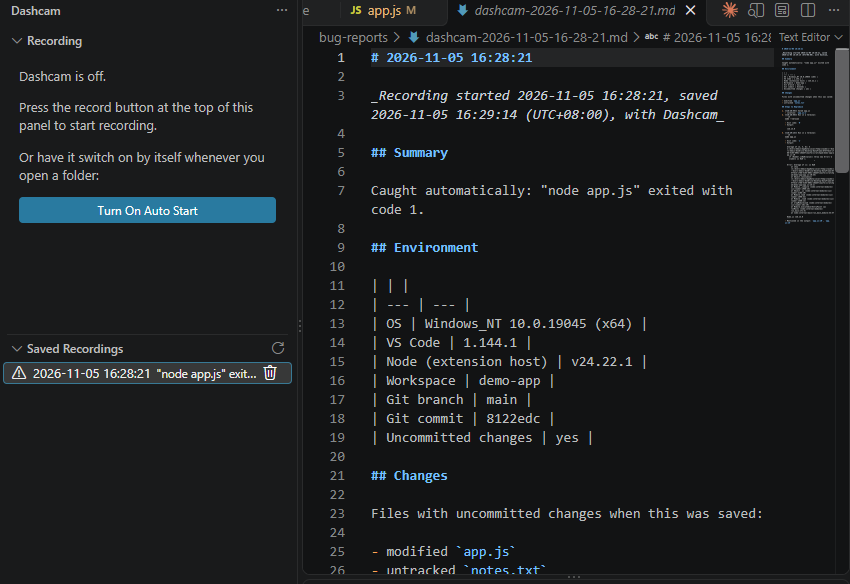
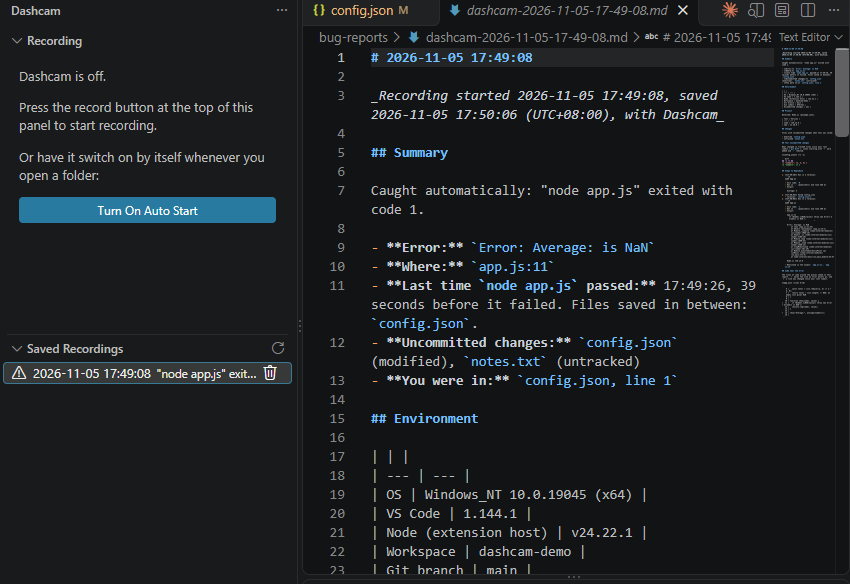
Document 0.3.0: richer reports; config-driven demo app; screenshots from a clean run

diff --git a/examples/demo-app/app.js b/examples/demo-app/app.js
@@ -1,9 +1,10 @@
 // A tiny program with a deliberate bug, for trying out Dashcam.
 // Run it with:  node app.js
+const { numbers } = require("./config.json");
 
-function average(numbers) {
-  const total = numbers.reduce((a, b) => a + b, 0);
-  return total / numbers.length; // BUG: an empty list gives NaN
+function average(list) {
+  const total = list.reduce((a, b) => a + b, 0);
+  return total / list.length; // BUG: an empty list gives NaN
 }
 
 function show(label, value) {
@@ -11,5 +12,4 @@ function show(label, value) {
   console.log(label, value);
 }
 
-show("Average of [2, 4, 6]:", average([2, 4, 6]));
-show("Average of []:", average([]));
+show("Average:", average(numbers));

diff --git a/docs/tutorials/03-save-and-share-the-report.md b/docs/tutorials/03-save-and-share-the-report.md
@@ -14,18 +14,31 @@ A saved recording is a report. It is one Markdown file.
 | Section | What goes there |
 |---|---|
 | Title and time stamp | The date and time the recording started, when it was saved, and your time zone (for example `UTC+08:00`), so it makes sense to someone in another country |
-| **Summary** | Only for a crash Dashcam caught: what failed, such as `"node app.js" exited with code 1` |
+| **Summary** | What failed, such as `"node app.js" exited with code 1` (for a crash Dashcam caught), then a few bullets so a reader gets the point at a glance: the **error** line, **where** it points (`app.js:10`, and whether that is a line you changed), **the last time the same command passed** with the files you saved in between, your **uncommitted changes**, which file and line **you were in**, and any **unsaved edits** the report cannot see |
 | **Environment** | OS, VS Code version, Node, workspace, git branch and commit, whether you have uncommitted changes, and any tool versions you listed in `dashcam.extraTools` |
+| **Project** | The kind of project (Node.js, Python, .NET, Go, Java or Rust), the tool versions (`node`, `npm`, `python`, `dotnet`, `go`, `java`, `rustc`), and the dependency list from `package.json`, `requirements.txt` or a `.csproj`. Most "works on my machine" problems are version problems. |
 | **Changes** | In a git project, the files with uncommitted changes when the report was saved, such as `modified app.js` or `untracked notes.txt`. This answers "what did I change right before it broke?" The reports folder is left out. |
-| **Steps to Reproduce** | The numbered story: saved files, terminal commands with their exit code and output, debug sessions and new errors, each with the time it happened, like the stamp on footage, and `file:line` where there is one. For a command, the `file:line` locations in your project that its output names, such as stack-trace lines, are listed as "Mentioned in the output" |
-| **Code near the error** | A few lines of your code around each `file:line` the report points at, with the line the error points at marked `>`. So the report shows the code as well as the error. Secret-looking files such as `.env` are never included, and `dashcam.codeContextLines` set to `0` leaves code out. |
+| **Your uncommitted changes** | The real diff (`git diff`) of tracked files since your last commit, so a reader sees exactly what changed. Capped in size, and files such as `.env` are left out. `dashcam.diffMaxLines` set to `0` leaves it out. |
+| **Steps to Reproduce** | The numbered story: saved files, terminal commands with their exit code and output, debug sessions and new errors, each with the time it happened, like the stamp on footage, and `file:line` where there is one. For a command, the `file:line` locations in your project that its output names, such as stack-trace lines, are listed as "Mentioned in the output". Each command also shows the folder and shell it ran in and how long it took, and for very long output the start and the end are both kept |
+| **Code near the error** | A few lines of your code around each `file:line` the report points at, with the line the error points at marked `>` and the lines you changed since your last commit marked `*`. So the report shows the code as well as the error, and whether the error is on a line you just edited. Secret-looking files such as `.env` are never included, and `dashcam.codeContextLines` set to `0` leaves code out. |
+| **Problems panel at the time** | How many errors and warnings the Problems panel had when the report was saved, and the first few errors with their `file:line` |
 | **Errors and Output** | What debug sessions printed to stdout and stderr |
 
 A complete one: [examples/sample-report.md](../../examples/sample-report.md).
 
-Here is the end of a real one, saved after `.\fail.cmd` failed. The terminal entries have their exit codes and output, and the stack-trace line `app.js:6:12` is listed as "Mentioned in the output":
+Here is the top of a real one, saved after the demo app failed (see [tutorial 1](01-record-your-first-bug.md)). The Summary tells the story in five lines: the error, where it points, that the same command passed 39 seconds earlier, which file was saved in between, and what is uncommitted.
 
-![The Steps to Reproduce part of a saved report, with an exit code, the command's output, and "Mentioned in the output: app.js:6"](../images/report-steps.png)
+> ## Summary
+>
+> Caught automatically: "node app.js" exited with code 1.
+>
+> - **Error:** `Error: Average: is NaN`
+> - **Where:** `app.js:11`
+> - **Last time `node app.js` passed:** 17:49:26, 39 seconds before it failed. Files saved in between: `config.json`.
+> - **Uncommitted changes:** `config.json` (modified), `notes.txt` (untracked)
+> - **You were in:** `config.json, line 1`
+
+Lower down, **Your uncommitted changes** shows the edit itself (`-{ "numbers": [2, 4, 6] }` and `+{ "numbers": [] }`), and **Code near the error** shows the `average()` function with its `// BUG` comment, so the cause is in the report.
 
 Want to add your own words, such as what you expected? It is a Markdown file. Open it and type under the heading.
 

diff --git a/docs/reference.md b/docs/reference.md
@@ -51,7 +51,12 @@ Turn this off with `dashcam.detectCrashes`.
 
 - **Changes.** In a git project, the files with uncommitted changes when the report is saved: modified, added, deleted, renamed or untracked. The folder Dashcam saves reports in is left out. Not shown outside a git project, or when nothing has changed.
 - **Mentioned in the output.** Dashcam scans a command's output and debug output for `path/to/file.ext:line` (for example `app.js:6:12` in a stack trace) and lists the ones that point at a real file inside your project. URLs, version numbers, missing files and paths outside the project are ignored. At most five per entry.
-- **Code near the error.** For every `file:line` the report points at (the ones above, and errors from the Problems panel), a few lines of that file around it, with line numbers and the line the error points at marked `>`. Locations close together are merged into one block. Limits: at most 6 files and 120 lines per report, files over 512 KB are skipped, and lines are cut at 200 characters. Files named like `.env`, `*.pem`, `*.key`, `*.pfx`, `*.p12`, `id_rsa*`, or containing `secret` or `credential` are never included. The text goes through secret redaction like the rest of the report. Set `dashcam.codeContextLines` to `0` to leave code out.
+- **Code near the error.** For every `file:line` the report points at (the ones above, and errors from the Problems panel), a few lines of that file around it, with line numbers and the line the error points at marked `>`. Locations close together are merged into one block. Limits: at most 6 files and 120 lines per report, files over 512 KB are skipped, and lines are cut at 200 characters. Files named like `.env`, `*.pem`, `*.key`, `*.pfx`, `*.p12`, `id_rsa*`, or containing `secret` or `credential` are never included. The text goes through secret redaction like the rest of the report. Set `dashcam.codeContextLines` to `0` to leave code out. Lines you changed since your last commit are marked `*` in the snippets.
+- **At a glance (in the Summary).** After the crash line, up to six bullets: the **error** line from the output (the first `...Error` or `...Exception` line, else the last line); **where** it points, and whether that is a line you changed; **the last time the same command passed**, how long before it failed, and the files saved in between (or that it had no earlier passing run in this recording); your **uncommitted changes**; the **file and line you were in**; and **unsaved edits** in other files that the report cannot see.
+- **Your uncommitted changes.** The `git diff` against your last commit for tracked files, with line numbers kept by the hunk headers. Limits: `dashcam.diffMaxLines` lines in total, lines cut at 200 characters, and files named like `.env`, `*.pem` or `*.key` and the reports folder left out. Untracked files are listed under **Changes** but their contents are not included. Not shown when there is no git repository or no commit yet.
+- **Project.** What kind of project this is, found from files in the project's root: `package.json` (Node.js), `requirements.txt`, `pyproject.toml` or `Pipfile` (Python), a `.csproj` or `.sln` (.NET), `go.mod` (Go), `pom.xml` or `build.gradle` (Java), `Cargo.toml` (Rust). It lists the tool versions (`node --version`, `npm --version`, `python --version`, `dotnet --version`, `go version`, `java -version`, `rustc --version`) and up to 30 dependencies with their declared versions.
+- **How each command ran.** The folder it ran in (relative to the project), the shell, and how long it took. If its output was longer than 6,000 characters, the first 2,000 and the last 4,000 are kept, with a line saying how many characters were left out.
+- **Problems panel at the time.** The number of errors and warnings in the Problems panel when the report was saved, and the first eight errors with their `file:line`.
 
 ## Settings
 
@@ -60,6 +65,8 @@ Turn this off with `dashcam.detectCrashes`.
 | `dashcam.autoStart` | `false` | Start recording when a folder opens. A recording is titled with the date and time it started. |
 | `dashcam.bufferMinutes` | `30` | Drop entries older than this many minutes. `0` keeps everything. |
 | `dashcam.codeContextLines` | `5` | In a saved report, include this many lines of code either side of each `file:line` the report points at. `0` leaves code out. Maximum `10`. |
+| `dashcam.diffMaxLines` | `150` | In a saved report, include what changed in tracked files since your last commit (`git diff`), up to this many diff lines in total, and mark the changed lines in the code snippets. `0` leaves it out. Maximum `500`. |
+| `dashcam.includeProjectInfo` | `true` | In a saved report, include the project type, its dependency list and the versions of its tools. The version commands run only in a trusted workspace. |
 | `dashcam.detectCrashes` | `true` | When a command exits with an error or a debug session crashes, stop and save the report automatically. |
 | `dashcam.redactSecrets` | `true` | Replace likely secrets with `[REDACTED]` in saved reports. |
 | `dashcam.outputFolder` | `bug-reports` | Where reports are saved, relative to the workspace root. |

diff --git a/examples/sample-report.md b/examples/sample-report.md
@@ -1,69 +1,114 @@
-# 2026-11-05 14:08:05
+# 2026-11-05 17:49:08
 
-_Recording started 2026-11-05 14:08:05, saved 2026-11-05 14:08:49 (UTC+08:00), with Dashcam_
+_Recording started 2026-11-05 17:49:08, saved 2026-11-05 17:50:06 (UTC+08:00), with Dashcam_
 
 ## Summary
 
 Caught automatically: "node app.js" exited with code 1.
 
+- **Error:** `Error: Average: is NaN`
+- **Where:** `app.js:11`
+- **Last time `node app.js` passed:** 17:49:26, 39 seconds before it failed. Files saved in between: `config.json`.
+- **Uncommitted changes:** `config.json` (modified), `notes.txt` (untracked)
+- **You were in:** `config.json, line 1`
+
 ## Environment
 
 | | |
 | --- | --- |
-| OS | Windows_NT 10.0.22631 (x64) |
-| VS Code | 1.95.0 |
-| Node (extension host) | v20.18.0 |
-| Workspace | demo-app |
+| OS | Windows_NT 10.0.19045 (x64) |
+| VS Code | 1.144.1 |
+| Node (extension host) | v24.22.1 |
+| Workspace | dashcam-demo |
 | Git branch | main |
-| Git commit | 3f2a9c1 |
+| Git commit | 8fbcfa1 |
 | Uncommitted changes | yes |
-| node --version | v22.11.0 |
+
+## Project
+
+Detected: Node.js (package.json).
+
+| Tool | Version |
+| --- | --- |
+| node | v26.13.0 |
+| npm | 11.20.0 |
 
 ## Changes
 
 Files with uncommitted changes when this was saved:
 
-- modified `app.js`
+- modified `config.json`
 - untracked `notes.txt`
+
+## Your uncommitted changes
+
+What changed in tracked files since your last commit (`git diff`). Lines starting with `+` were added and `-` removed.
+
+**config.json** (+1 -1)
+
+```diff
+@@ -1 +1 @@
+-{ "numbers": [2, 4, 6] }
++{ "numbers": [] }
+```
 
 ## Steps to Reproduce
 
-1. **14:08:31** Saved app.js
-   - Location: `app.js:1`
-2. **14:08:40** Run in a terminal:
+1. **17:49:26** Run in a terminal:
+   ```sh
+   node app.js
+   ```
+   - Exit code: `0`
+   - Ran in `.` (powershell) and took 366 ms
+   - Output:
+     ```
+     Average: 4
+     ```
+2. **17:49:53** Saved config.json
+   - Location: `config.json:1`
+3. **17:50:05** Run in a terminal:
    ```sh
    node app.js
    ```
    - Exit code: `1`
+   - Ran in `.` (powershell) and took 290 ms
    - Output:
      ```
-     app.js:10
+     app.js:11
        if (Number.isNaN(value)) throw new Error(`${label} is NaN`);
                                 ^
 
-     Error: Average of []: is NaN
-         at show (app.js:10:34)
+     Error: Average: is NaN
+         at show (app.js:11:34)
          at Object.<anonymous> (app.js:15:1)
-     Node.js v22.11.0
+         at Module._compile (node:internal/modules/cjs/loader:1968:14)
+         at Object..js (node:internal/modules/cjs/loader:2108:10)
+         at Module.load (node:internal/modules/cjs/loader:1690:32)
+         at Module._load (node:internal/modules/cjs/loader:1480:12)
+         at wrapModuleLoad (node:internal/modules/cjs/loader:261:19)
+         at Module.executeUserEntryPoint [as runMain] (node:internal/modules/run_main:171:5)
+         at node:internal/main/run_main_module:33:47
+
+     Node.js v26.13.0
      ```
-   - Mentioned in the output: `app.js:10`, `app.js:15`
+   - Mentioned in the output: `app.js:11`, `app.js:15`
 
 ## Code near the error
 
-The lines of code around the places named in this report. `>` marks the line an error points at.
+The lines of code around the places named in this report. `>` marks the line an error points at, and `*` a line you changed since your last commit.
 
-**app.js** (lines 5-15)
+**app.js** (lines 6-16)
 
 ```
-   5 |   const total = numbers.reduce((a, b) => a + b, 0);
-   6 |   return total / numbers.length; // BUG: an empty list gives NaN
-   7 | }
-   8 | 
-   9 | function show(label, value) {
-> 10 |   if (Number.isNaN(value)) throw new Error(`${label} is NaN`);
-  11 |   console.log(label, value);
-  12 | }
-  13 | 
-  14 | show("Average of [2, 4, 6]:", average([2, 4, 6]));
-> 15 | show("Average of []:", average([]));
+    6 |   const total = list.reduce((a, b) => a + b, 0);
+    7 |   return total / list.length; // BUG: an empty list gives NaN
+    8 | }
+    9 | 
+   10 | function show(label, value) {
+>  11 |   if (Number.isNaN(value)) throw new Error(`${label} is NaN`);
+   12 |   console.log(label, value);
+   13 | }
+   14 | 
+>  15 | show("Average:", average(numbers));
+   16 |
 ```

diff --git a/README.md b/README.md
@@ -39,9 +39,12 @@
 _Recording started 2026-11-05 14:08:05, saved 2026-11-05 14:21:40 (UTC+08:00), with Dashcam_
 
 ## Summary                Caught automatically: "node app.js" exited with code 1.
-## Environment            OS, VS Code, Node, git branch and commit,
-                          uncommitted changes, and any tool versions you list
+                          + the error, where it points, when this command last
+                            passed, what you changed, where you were
+## Environment            OS, VS Code, Node, git branch and commit
+## Project                project type, tool versions, dependencies
 ## Changes                the files with uncommitted changes (git projects)
+## Your uncommitted changes   the real git diff
 ## Steps to Reproduce     1. 14:08:31 Saved app.js
                           2. 14:08:40 Run in a terminal: node app.js   (exit code 1, with its output,
                              and the file:line locations named in that output)
@@ -56,7 +59,10 @@ See a full one in [examples/sample-report.md](examples/sample-report.md).
 - **Record automatically.** Terminal commands (with output and exit code), saved files, debug sessions and their output, and new Problems panel errors.
 - **Catch crashes.** A failing command or a crashed debug session stops the recording and saves the report, with a message and an **Open Report** button.
 - **Show what changed.** In a git project, a **Changes** section lists the files with uncommitted changes. File and line locations named in a command's output, such as stack-trace lines, are listed under it as `file:line`.
-- **Show the code too.** A **Code near the error** section includes a few lines of your code around each `file:line` the report points at, so one report shows the code as well as the error.
+- **Get the point at a glance.** The Summary lists the error, where it points, **the last time the same command passed** (and the files you saved in between), what you changed, and where you were.
+- **Show what changed.** The real `git diff` of your uncommitted changes, so a reader sees exactly what you edited.
+- **Show the code too.** A **Code near the error** section includes a few lines of your code around each `file:line` the report points at, with the lines you changed marked `*`, so one report shows the code as well as the error.
+- **Say what it ran on.** The project type, tool versions and dependencies, the folder, shell and duration of each command, and the Problems panel at the time.
 - **Stop and decide.** Click the record button again and Dashcam asks whether to save the recording as a report.
 - **Browse your recordings.** A **Saved Recordings** list in the sidebar, newest first. Crashes caught automatically have a warning icon and show what failed.
 - **Time-stamped, like footage.** The sidebar shows the current date and time and a running clock, and every entry in the report has the time it happened.
@@ -79,7 +85,7 @@ If you code with an AI assistant, a report is a much smaller thing to paste than
 Before you paste:
 
 - **Read the report first.** Secret redaction is pattern matching and can miss things, and the report can contain terminal output and code.
-- Pasting sends the text to that AI service. If a project is private, set `dashcam.codeContextLines` to `0` to leave code out of reports.
+- Pasting sends the text to that AI service. If a project is private, set `dashcam.codeContextLines` and `dashcam.diffMaxLines` to `0` to leave code out of reports.
 
 ## Limits, stated plainly
 

diff --git a/docs/privacy.md b/docs/privacy.md
@@ -17,12 +17,13 @@ The short version: **Dashcam works on your computer and sends nothing anywhere.*
 
 ## What a report can contain
 
-A report can contain terminal output, which can contain anything your programs print, including secrets and personal data. Since version 0.2.0 it can also contain a few lines of your own code around the places an error points at (`dashcam.codeContextLines`, 5 lines by default). Files such as `.env` and `*.pem` are never included, but code can still contain things you would not want to share. Dashcam tries to replace likely secrets with `[REDACTED]`, but this is pattern matching and **it can miss things**. Before you paste a report into a public issue or send it to someone, read it.
+A report can contain terminal output, which can contain anything your programs print, including secrets and personal data. Since version 0.2.0 it can also contain a few lines of your own code around the places an error points at (`dashcam.codeContextLines`, 5 lines by default). Since 0.3.0 it can also contain a diff of your uncommitted changes (`dashcam.diffMaxLines`, 150 lines by default) and your project's dependency list and tool versions (`dashcam.includeProjectInfo`). Files such as `.env` and `*.pem` are never included, but code can still contain things you would not want to share. Dashcam tries to replace likely secrets with `[REDACTED]`, but this is pattern matching and **it can miss things**. Before you paste a report into a public issue or send it to someone, read it.
 
 Tips:
 
 - Add `bug-reports/` to your `.gitignore` so reports are not committed by accident.
-- Set `"dashcam.codeContextLines": 0` if you do not want any of your code in reports.
+- Set `"dashcam.codeContextLines": 0` and `"dashcam.diffMaxLines": 0` if you do not want any of your code in reports. Set `"dashcam.includeProjectInfo": false` to leave out the dependency list and tool versions.
+- Dashcam also runs short version commands (`node --version` and similar) when it saves a report, only in a trusted workspace.
 - Dashcam records only while a recording is on. Keep `dashcam.autoStart` off and press the record button only when you want it.
 - Delete any entry you do not want in the Recording list before you stop and save.
 - Reports saved automatically after a crash can contain the failing command's output. Delete a saved recording from the Saved Recordings list if you do not want to keep it.

diff --git a/docs/tutorials/01-record-your-first-bug.md b/docs/tutorials/01-record-your-first-bug.md
@@ -2,7 +2,7 @@
 
 About five minutes. You will switch the dashcam on, make something go wrong, and find the saved recording.
 
-You can use any project. If you want a bug on purpose, copy [examples/demo-app/app.js](../../examples/demo-app/app.js) into a folder and open that folder in VS Code. It averages a list of numbers, gets `NaN` for an empty list, and stops with an error. You need [Node.js](https://nodejs.org) installed to run it.
+You can use any project. If you want a bug on purpose, copy the folder [examples/demo-app](../../examples/demo-app) and open it in VS Code. The program reads a list of numbers from `config.json` and prints their average. With `[2, 4, 6]` it works. With an empty list, `[]`, it gets `NaN` and stops with an error. You need [Node.js](https://nodejs.org) installed to run it.
 
 ## 1. Switch it on
 
@@ -16,16 +16,21 @@ The button turns into a stop icon, and at the top of the list you see the curren
 
 ## 2. Make the bug happen
 
-Do what you would normally do. Save a file. Run the program in the VS Code terminal, for example `node app.js`.
+Do what you would normally do, in the VS Code terminal and editor:
+
+1. Run `node app.js`. It works and prints `Average: 4`.
+2. Open `config.json`, change the list to `[]`, and save the file.
+3. Run `node app.js` again. This time it fails.
 
 You do not have to tell Dashcam anything. Entries appear in the list by themselves and are tagged **auto**, each with the time it happened:
 
 ```
-1. Saved app.js          14:08:31 · auto · app.js:1
-2. node app.js           14:08:40 · auto · exit 1
+1. node app.js           14:08:20 · auto
+2. Saved config.json     14:08:31 · auto · config.json:1
+3. node app.js           14:08:40 · auto · exit 1
 ```
 
-A command that fails shows its exit code, and the output it printed is attached to it.
+A command that fails shows its exit code, and the output it printed is attached to it. Because the same command passed earlier, the report will also say when it last worked, and which file you saved in between.
 
 > If you see no terminal commands, your terminal may not support shell integration, or VS Code is older than 1.93. See the [FAQ](../faq.md).
 

diff --git a/CHANGELOG.md b/CHANGELOG.md
@@ -2,6 +2,18 @@
 
 All notable changes to Dashcam, newest first.
 
+## 0.3.0 (November 2026)
+
+A much more useful report. Everything below is added to the saved Markdown file automatically.
+
+- **At a glance, in the Summary.** The error line, where it points (and whether that is a line you changed since your last commit), **the last time the same command passed** with the files you saved in between, your uncommitted changes, the file and line you were in, and any unsaved edits the report cannot see.
+- **Your uncommitted changes.** The real `git diff` of tracked files, capped in size. Lines you changed are marked `*` in the code snippets, so you can see when an error is on a line you just edited. New setting `dashcam.diffMaxLines` (default `150`, `0` leaves it out).
+- **Project.** The kind of project, the versions of its tools (`node`, `npm`, `python`, `dotnet`, `go`, `java`, `rustc`) and its dependency list (`package.json`, `requirements.txt`, `.csproj`). New setting `dashcam.includeProjectInfo` (default on). The version commands run only in a trusted workspace.
+- **Where and how each command ran:** its folder, the shell, and how long it took.
+- **Problems panel at the time:** the error and warning counts and the first few errors.
+- **Long output keeps its start as well as its end.** The middle is marked as omitted, so an early error is no longer lost.
+- The default for `dashcam.codeContextLines` is now `5`.
+
 ## 0.2.0 (November 2026)
 
 - **Code near the error.** A saved report now includes a few lines of your code around each `file:line` it points at, from stack traces and Problems panel errors, with the line the error points at marked `>`. One report shows the code as well as the error. It is capped in size, passes through secret redaction, and never includes files such as `.env`, `*.pem` or `*.key`.

diff --git a/docs/faq.md b/docs/faq.md
@@ -59,7 +59,7 @@ Entries older than 30 minutes drop off. Make the window shorter with `dashcam.bu
 
 ## Does the report include my code?
 
-A few lines of it. Since 0.2.0, a report includes **Code near the error**: the lines around each `file:line` the report points at (from a stack trace or a Problems panel error), with the line the error points at marked `>`. It never includes the whole project, and never files such as `.env` or `*.pem`. To leave code out, set `dashcam.codeContextLines` to `0`. For the limits, see the [reference](reference.md).
+A few lines of it. Since 0.2.0, a report includes **Code near the error**: the lines around each `file:line` the report points at (from a stack trace or a Problems panel error), with the line the error points at marked `>`. Since 0.3.0 it also includes the `git diff` of your uncommitted changes (capped at `dashcam.diffMaxLines`, 150 lines by default). It never includes the whole project, and never files such as `.env` or `*.pem`. To leave code out, set `dashcam.codeContextLines` and `dashcam.diffMaxLines` to `0`. For the limits, see the [reference](reference.md).
 
 ## Can I paste a report into an AI assistant?
 

diff --git a/examples/README.md b/examples/README.md
@@ -1,4 +1,4 @@
 # Examples
 
-- **[demo-app/app.js](demo-app/app.js):** a tiny program with a deliberate bug (`average([])` returns `NaN`, and the program then stops with an error and exit code 1). Open its folder in VS Code and follow [tutorial 1](../docs/tutorials/01-record-your-first-bug.md) to record it. It needs [Node.js](https://nodejs.org) to run: install it, then run `node app.js` in the VS Code terminal.
+- **[demo-app](demo-app):** a tiny program with a deliberate bug. It reads a list from `config.json` and prints the average. With `[2, 4, 6]` it works; with `[]` it gets `NaN` and stops with an error (exit code 1). Open the folder in VS Code and follow [tutorial 1](../docs/tutorials/01-record-your-first-bug.md): run it, change the list to `[]`, and run it again. It needs [Node.js](https://nodejs.org): install it, then run `node app.js` in the VS Code terminal. If you turn the folder into a git repository first, the report also shows what you changed.
 - **[sample-report.md](sample-report.md):** the kind of report Dashcam saves. The Environment values and times are examples.
